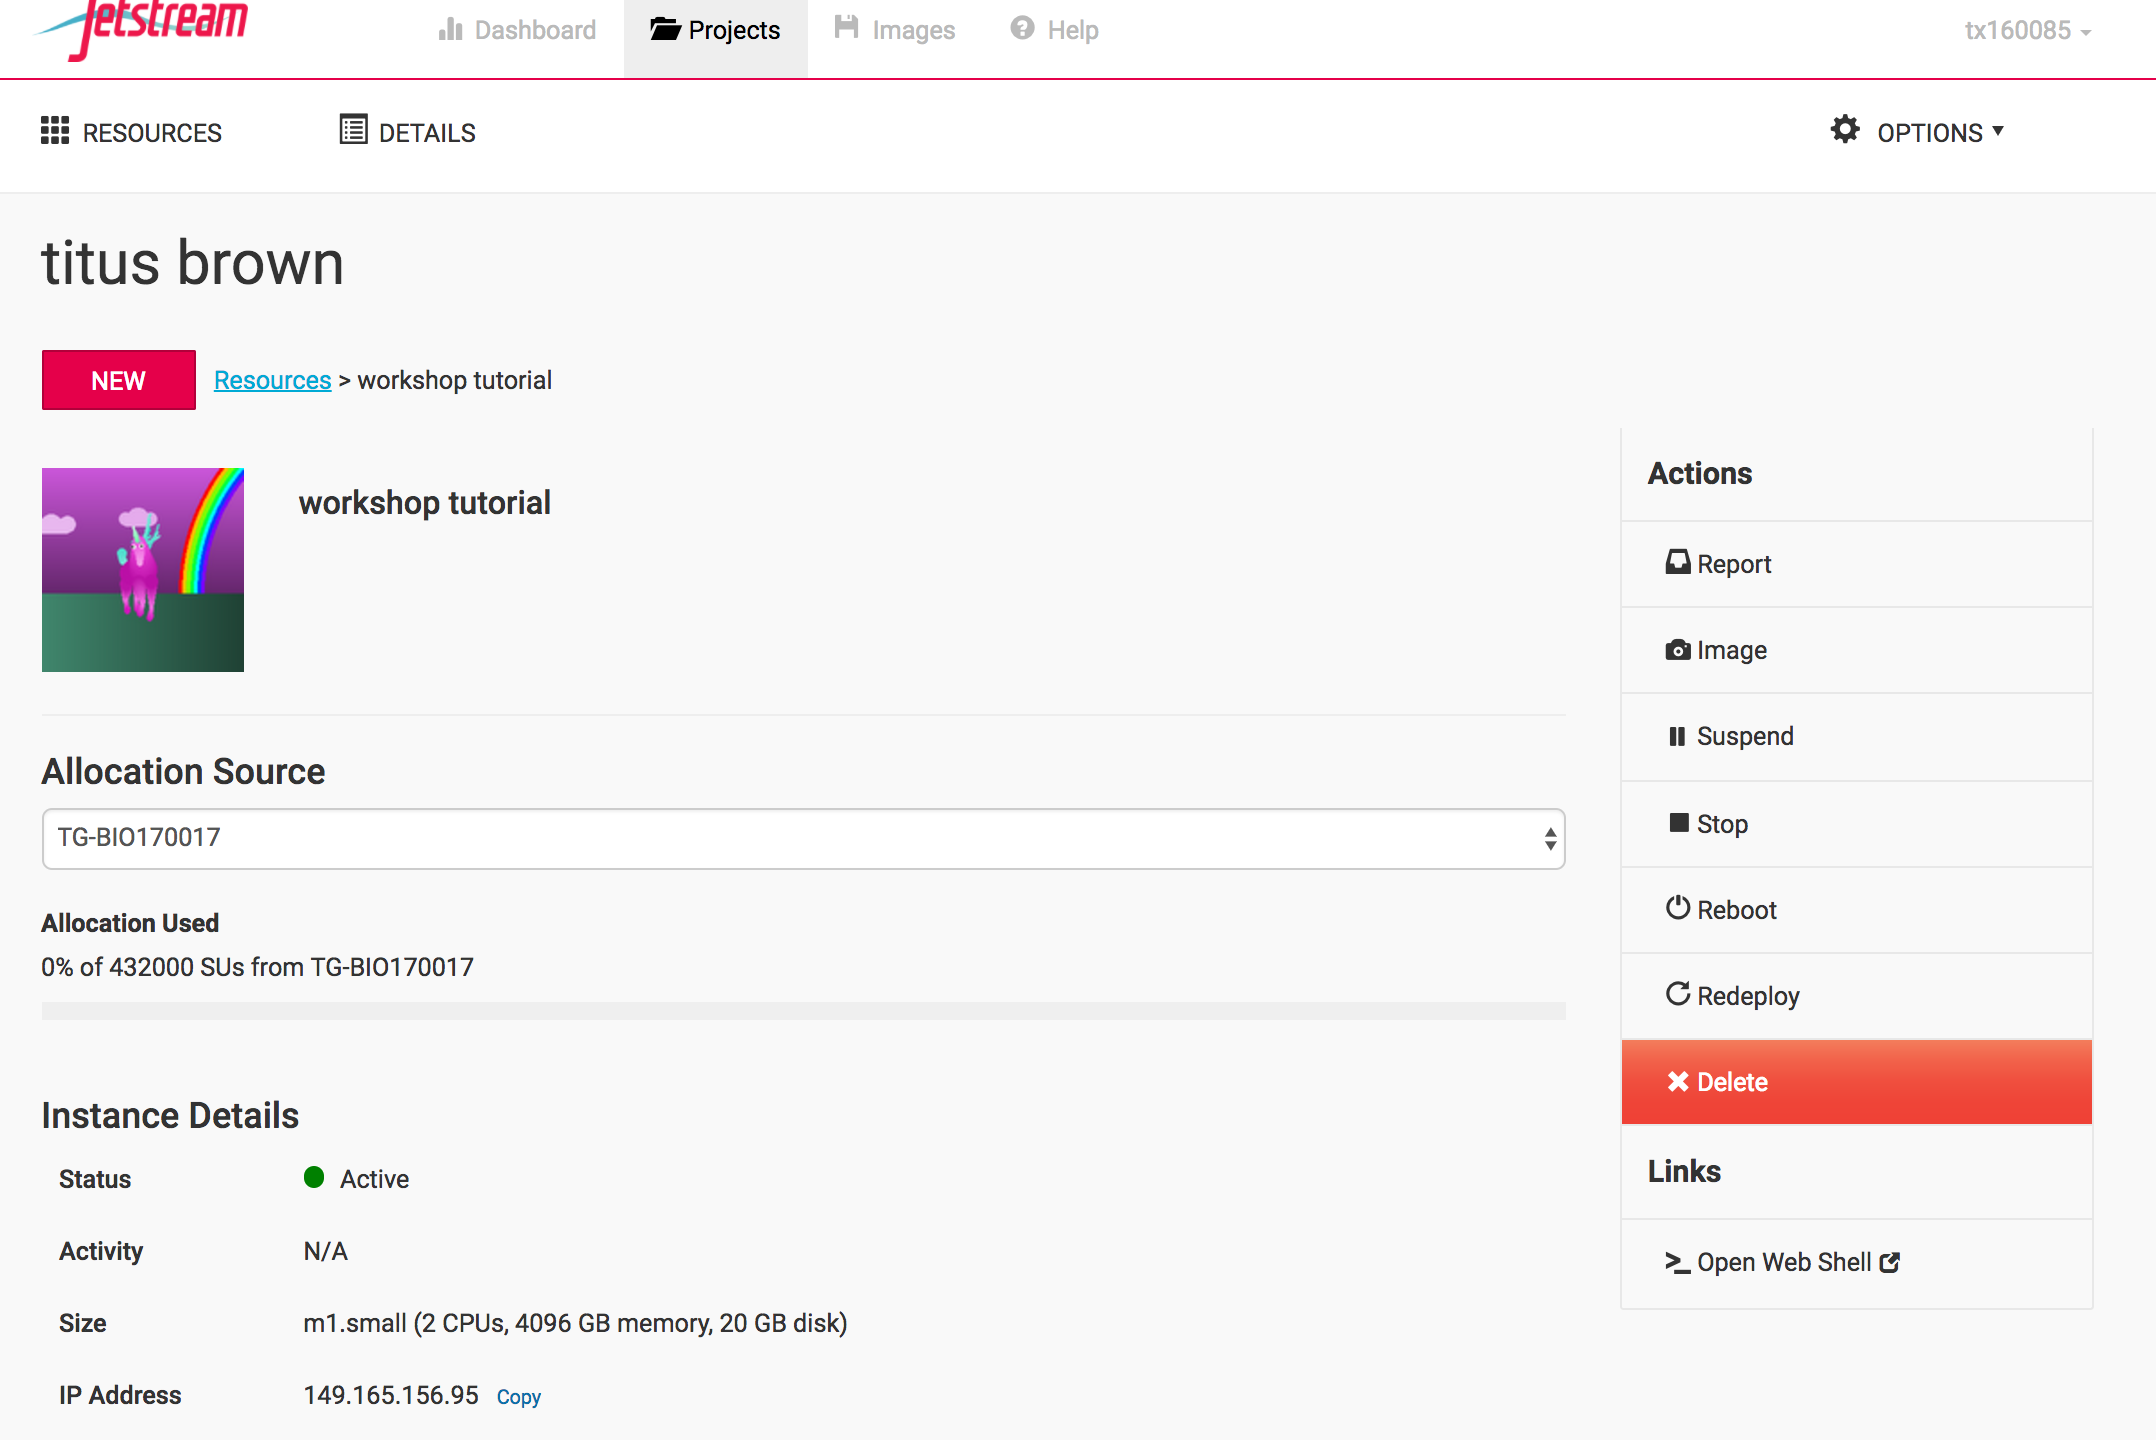
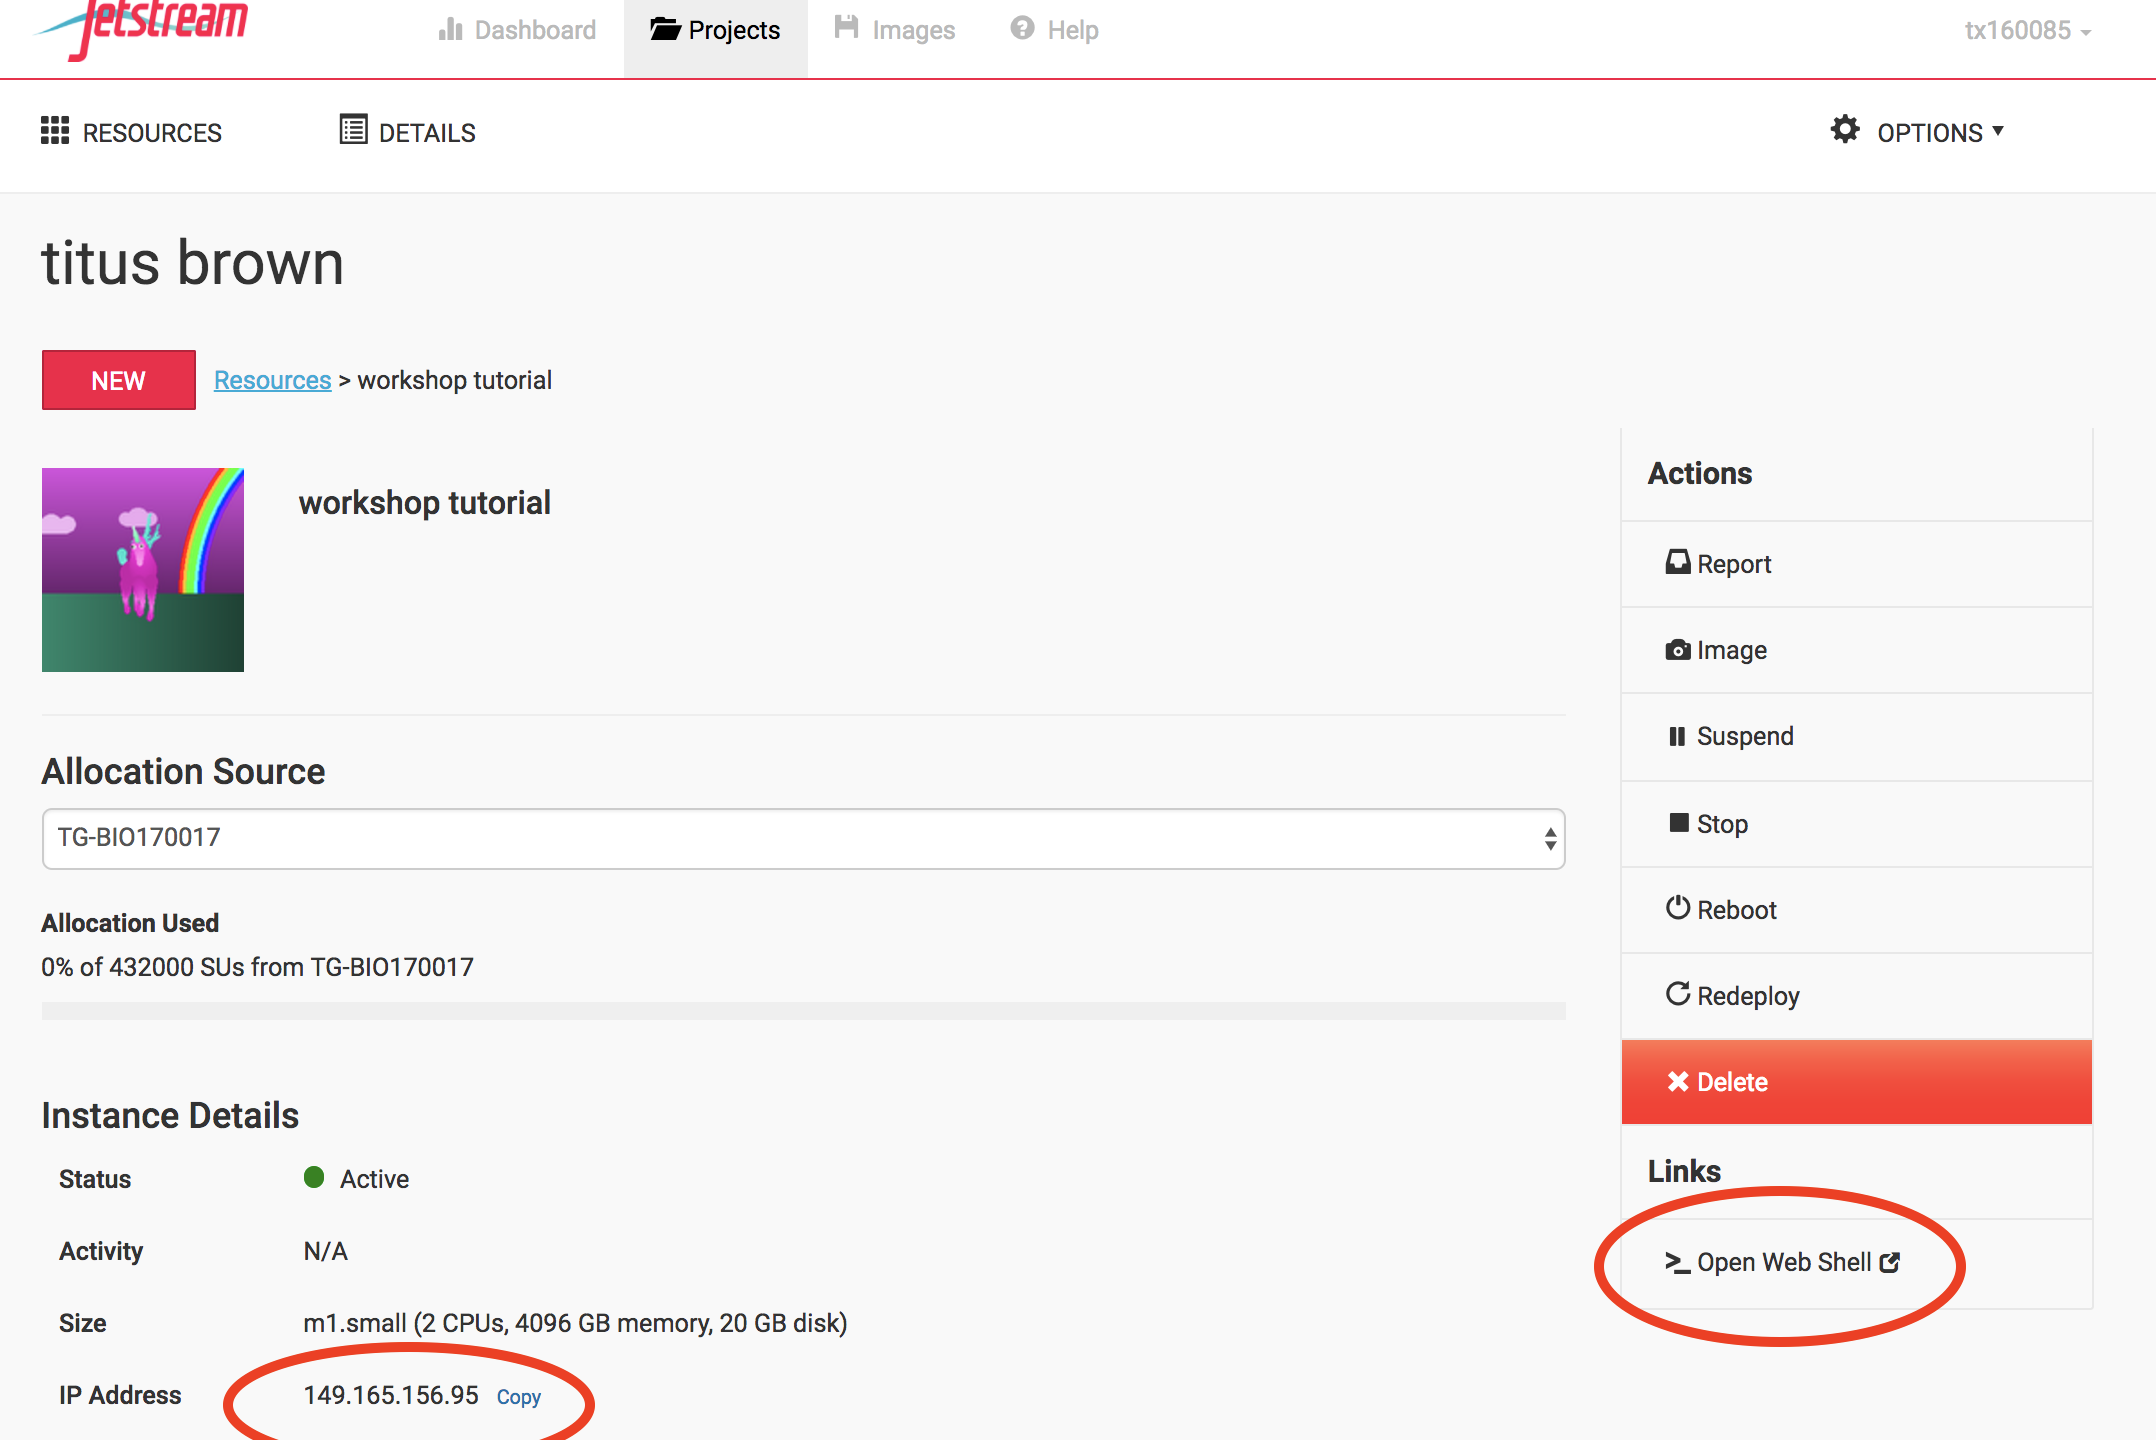
happy foo

diff --git a/jetstream/boot.rst b/jetstream/boot.rst
@@ -2,14 +2,37 @@
 Booting a Jetstream Computer Instance for your use!
 ===================================================
 
+What we're going to do here is walk through starting up an running
+computer (an "instance") on the Jetstream service.
+
+Below, we've provided screenshots of the whole process. You can click
+on them to zoom in a bit.  The important areas to fill in are circled
+in red.
+
+Some of the details may vary -- for example, if you have your own XSEDE
+account, you may want to log in with that -- and the name of the operating
+system or "image" may also vary from "Ubuntu 14.04.03" depending on the
+workshop.
+
+-----
+
+First, go to the Jetstream application at https://use.jetstream-cloud.org/application.
+
+Now:
+
 Request to log in to the Jetstream Portal
 =========================================
+
+Click the login link in the upper right.
 
 .. thumbnail:: images/login-1.png
    :width: 20%
 
 Use "XSEDE"
 ===========
+
+Choose "XSEDE" as your account provider (it should be the default) and click
+on "Continue".
            
 .. thumbnail:: images/login-2.png
    :width: 20%
@@ -17,11 +40,23 @@ Use "XSEDE"
 Fill in the username and password and click "Sign in"
 =====================================================
 
+Fill in the username, which is 'tx160085' for the UCSC workshop,
+and then enter the password (which we will tell you in class).
+
 .. thumbnail:: images/login-3.png
    :width: 20%
            
 Select Projects and "Create New Project"
 ========================================
+
+Now, this is something you only need to once if you have your own
+account - but if you're using a shared account like tx160085, you will
+need a way to keep your computers separate from everyone else's.
+
+We'll do this with Projects, which give you a bit of a workspace in which
+to keep things that belong to "you".
+
+Click on "Projects" up along the top.
 
 .. thumbnail:: images/login-5.png
    :width: 20%
@@ -29,11 +64,16 @@ Select Projects and "Create New Project"
 Name the project for yourself, click "create"
 =============================================
 
+Enter your name into the Project Name, and something simple like "UCSC"
+into the description. Then click 'create'.
+
 .. thumbnail:: images/login-6.png
    :width: 20%
 
 Select the newly created project
 ================================
+
+Click on your new project!
 
 .. thumbnail:: images/login-7.png
    :width: 20%
@@ -41,11 +81,16 @@ Select the newly created project
 Within the project, select "new"
 ================================
 
+Now, select 'New' to start up a new machine.
+
 .. thumbnail:: images/login-8.png
    :width: 20%
 
 Find the "Ubuntu 14.04.03" image, click on it
 =============================================
+
+Enter "Ubuntu 14.04.03" into the search bar - make sure it's from
+March 22nd, 2017.
 
 .. thumbnail:: images/login-9.png
    :width: 20%
@@ -53,17 +98,27 @@ Find the "Ubuntu 14.04.03" image, click on it
 Name it something simple and select 'm1.small'
 ==============================================
 
+Change the name after what we're doing - "UCSC workshop", for example,
+but it doesn't matter -- and select 'm1.small'.
+
 .. thumbnail:: images/login-10.png
    :width: 20%
 
 Wait for it to become active
 ============================
 
+It will now be booting up! This will take 2-10 minutes, depending.
+Just wait! Don't reload or anything.
+
 .. thumbnail:: images/login-11.png
    :width: 20%
            
-Click on it to get more information!
-====================================
+Click on your new instance to get more information!
+===================================================
+
+Now, you can either click "Open Web Shell", *or*, if you know how to use ssh,
+you can ssh in as user 'tx160085' on the IP address of the machine - see
+circled information below.
 
 .. thumbnail:: images/login-12.png
    :width: 20%
